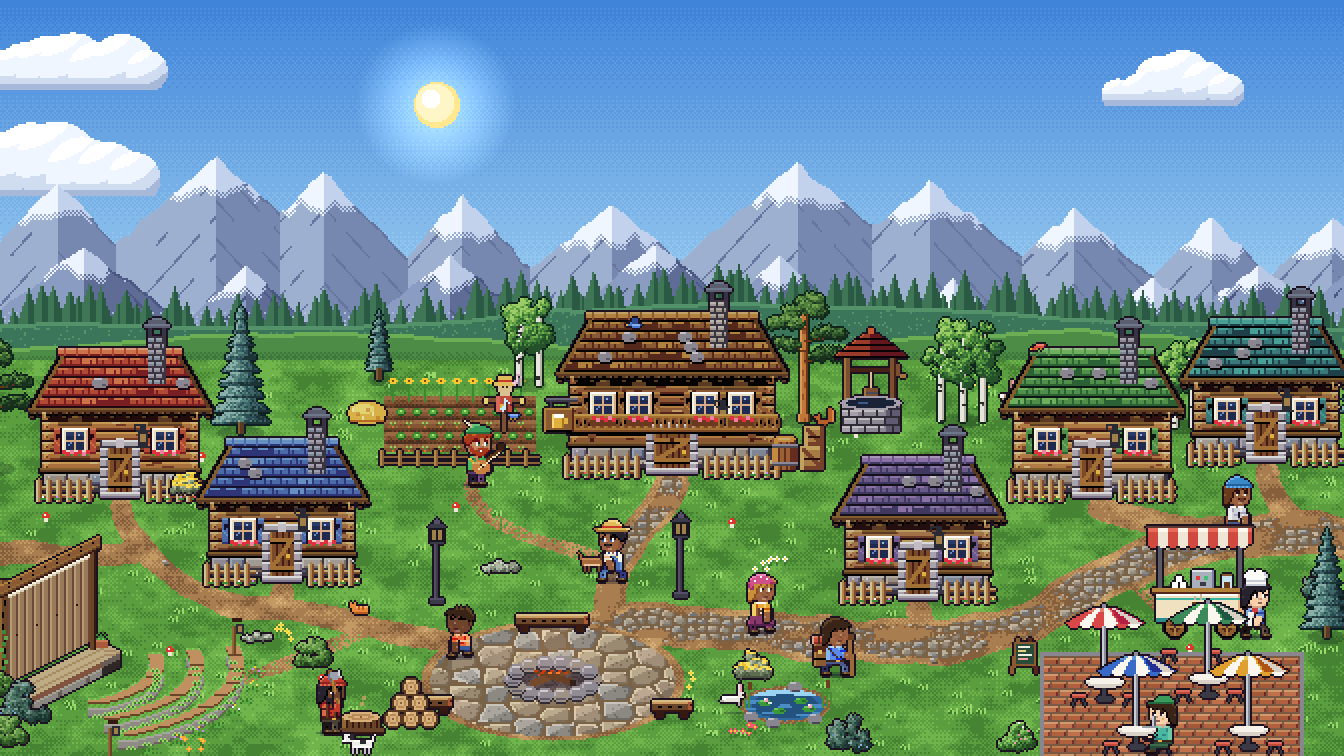
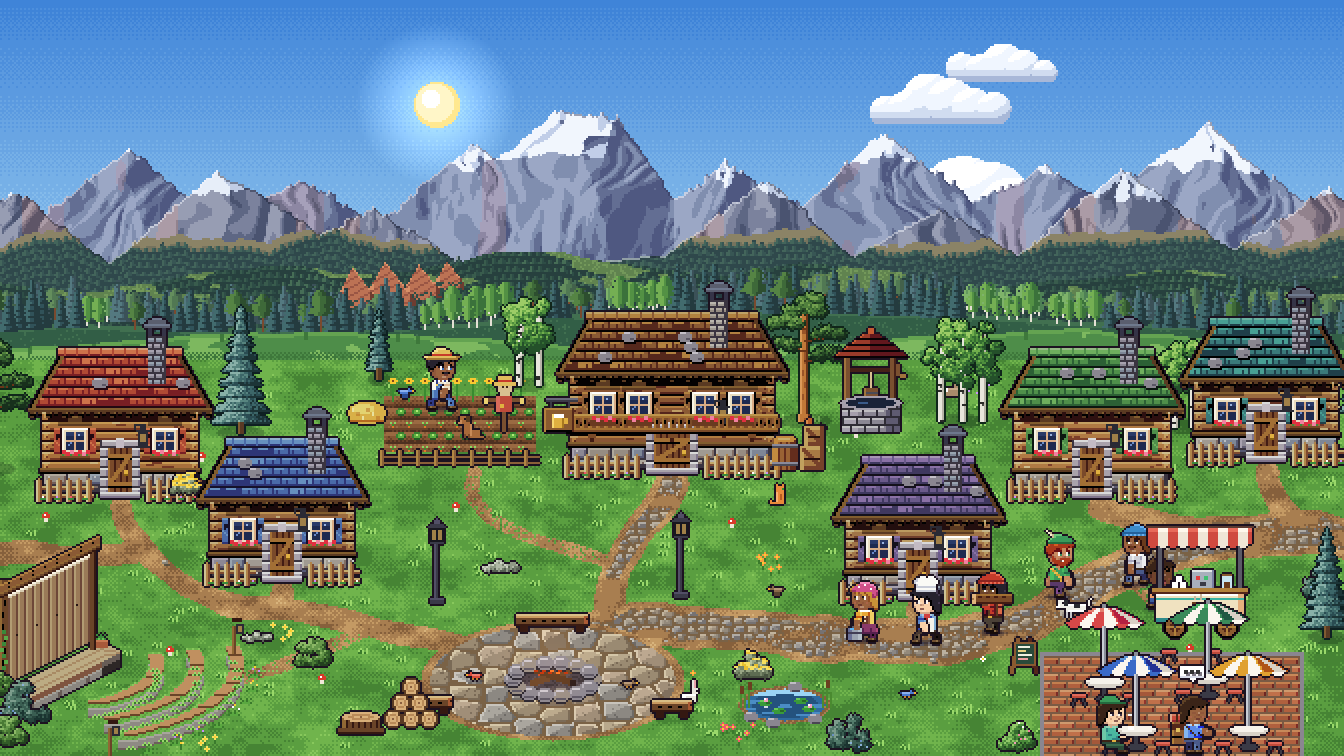
Repaint the mountain backdrop as the Colorado Front Range
The Continental Divide with a Longs-like massif, faceted granite and
gully snow above a ragged snowline; a nearer granite range with a
tundra band and treeline; forested foothills with Flatirons slabs; and
a spruce, ponderosa and aspen forest edge. Ranges get selective
silhouette outlines and more haze with distance. Refresh the README
screenshots.

diff --git a/pixel-village-card.js b/pixel-village-card.js
@@ -2019,6 +2019,259 @@ function drawWoodpile(g, snow) {
   if (snow) { P(g, lx + 5, ly - 21, 9, 2, '#ffffff'); P(g, lx - 4, ly - 13, 6, 1, '#ffffff'); P(g, lx + 18, ly - 13, 5, 1, '#ffffff'); }
 }
 
+// The backdrop, after the Colorado Front Range, painted back to front:
+//   1. the Continental Divide: hazy, jagged, a flat-topped Longs-like massif with a sheer east face, snowfields
+//      lying in the gullies above the snowline;
+//   2. a nearer granite range: rock above treeline, a band of tundra, dark forest below;
+//   3. forested foothills with meadows and a few Flatirons-style sandstone slabs;
+//   4. a forest edge of spruce/fir spires, ponderosa and aspen groves (two rows for depth);
+//   5. the rolling meadow in front of the village.
+// Every layer fills down to the horizon, so each one only paints the rows above the next one's top.
+function* paintBackdrop(set, snow, season) {
+  const HAZE = '#b6c6e0';
+  const fade = (arr, k) => arr.map((c) => hexToRgb(mixHex(c, HAZE, k)));
+  const frost = (arr, k) => (snow ? arr.map((c) => mixHex(c, '#eef4fc', k)) : arr);
+  const fbm = (x, y, seed, oct = 3) => { let v = 0, a = 0.5, f = 1, n = 0; for (let i = 0; i < oct; i++) { v += vnoise(x * f, y * f, seed + i * 17) * a; n += a; a *= 0.5; f *= 2.03; } return v / n; };
+  const ridged = (x, y, seed) => 1 - Math.abs(fbm(x, y, seed, 3) * 2 - 1);
+  // Distant conifer forest as rows of little tree tips (the classic pixel-art treeline): each row is offset,
+  // trees are lit on their western side, gaps between them read as shadow. Returns a palette index 0-2, or -1
+  // above the forest's spiky top edge.
+  const forestTex = (x, y, top, seed) => {
+    const rowH = 4, dy0 = y - top + 3; // tips poke up to 3px above the forest line
+    if (dy0 < 0) return -1;
+    const r = Math.floor(dy0 / rowH), dy = dy0 - r * rowH, ph = Math.floor(hash2(r, 1, seed) * 4);
+    const cell = Math.floor((x + ph) / 4), cx = cell * 4 + 1.5 - ph, tip = hash2(cell, r, seed + 1) * 1.6;
+    const half = (dy + 1 - tip) * 0.55;
+    if (r === 0 && half < Math.abs(x - cx)) return -1; // above the first row of tips: sky / rock shows
+    if (half < Math.abs(x - cx) || dy < tip) return 0;
+    return x < cx ? 2 : 1;
+  };
+  // how far down the snow reaches: deep in winter and spring, lingering snowfields in summer
+  const snowAmt = (snow ? 1.5 : 0) + ({ winter: 1, spring: 0.8, fall: 0.45, summer: 0.4 }[season] ?? 0.5);
+
+  // ridgelines: each peak is an asymmetric cone (or a tilted flat summit); the highest wins per column,
+  // then the line is roughened with broad undulation and serrated pinnacles
+  const profile = (peaks, seed, jag, floor) => {
+    const top = new Float32Array(RW), owner = new Int16Array(RW);
+    for (let x = 0; x < RW; x++) {
+      let best = 1e9, who = 0;
+      peaks.forEach((p, i) => {
+        const dx = x - p.x, flat = p.flat || 0, ax = Math.abs(dx);
+        const y = ax <= flat ? p.y + (dx + flat) * (p.tilt || 0) : p.y + (ax - flat) * (dx < 0 ? p.l : p.r);
+        if (y < best) { best = y; who = i; }
+      });
+      best += (fbm(x * 0.035, 0.5, seed) - 0.5) * jag * 2 + (hash2(x >> 1, 7, seed) - 0.5) * jag * 0.45;
+      if (hash2(x >> 2, 9, seed) < 0.12) best -= jag * 0.35; // little pinnacles
+      top[x] = Math.max(0, Math.min(best, floor + (fbm(x * 0.05, 3, seed) - 0.5) * 6)); owner[x] = who;
+    }
+    return { top, owner, peaks };
+  };
+
+  const divide = profile([
+    { x: -30, y: 92, l: 0.7, r: 0.62 }, { x: 64, y: 74, l: 0.78, r: 0.92 }, { x: 150, y: 90, l: 0.48, r: 0.52 },
+    { x: 236, y: 72, l: 0.82, r: 0.55 }, { x: 292, y: 56, l: 0.72, r: 1.5, flat: 15, tilt: 0.1 },
+    { x: 362, y: 84, l: 0.6, r: 0.5 }, { x: 440, y: 66, l: 0.95, r: 0.78 }, { x: 522, y: 82, l: 0.55, r: 0.62 },
+    { x: 604, y: 62, l: 0.72, r: 0.84 }, { x: 700, y: 82, l: 0.62, r: 0.6 },
+  ], 61, 5, HZ - 62);
+  const range = profile([
+    { x: 6, y: 96, l: 0.6, r: 0.72 }, { x: 108, y: 86, l: 0.84, r: 0.62 }, { x: 186, y: 104, l: 0.55, r: 0.6 },
+    { x: 384, y: 90, l: 0.72, r: 0.92 }, { x: 470, y: 104, l: 0.55, r: 0.6 }, { x: 560, y: 84, l: 0.8, r: 0.72 }, { x: 664, y: 96, l: 0.6, r: 0.62 },
+  ], 62, 4, HZ - 50);
+
+  // foothills, with a few sandstone slabs leaning on them (steep west edge, longer east edge)
+  const SLABS = [[176, 4, 8, 20], [192, 6, 11, 26], [209, 3, 8, 18], [223, 2, 6, 14]]; // apex x, rise above the hill, half-width, length down the slope
+  const foot = new Float32Array(RW), hill = new Float32Array(RW);
+  for (let x = 0; x < RW; x++) {
+    hill[x] = HZ - 44 + 6 * Math.sin(x * 0.013 + 1.2) + 4 * Math.sin(x * 0.041 + 0.3) + (fbm(x * 0.02, 1.5, 63) - 0.5) * 12;
+    foot[x] = hill[x];
+  }
+  // each slab is a steep triangle: apex just above the hill line, widening down the slope
+  const slabEdge = (i, x) => {
+    const [ax, rise, hw, len] = SLABS[i], t = (x - ax) / hw;
+    if (t < -1 || t > 1.4) return null;
+    return { top: hill[ax] - rise + (t < 0 ? -t : t / 1.4) * (len * 0.75), bot: hill[ax] - rise + len };
+  };
+  SLABS.forEach((sl, i) => {
+    for (let x = sl[0] - sl[2]; x <= sl[0] + Math.round(sl[2] * 1.4); x++) {
+      if (x < 0 || x >= RW) continue;
+      const e = slabEdge(i, x);
+      if (e && e.top < foot[x]) foot[x] = e.top;
+    }
+  });
+
+  // the forest edge: mostly spruce and fir spires, ponderosa with flat crowns, aspen in groves
+  const mh = (x) => HZ - 22 + 5 * Math.sin(x * 0.011 + 0.5) + 4 * vnoise(x * 0.03, 0.2, 15);
+  const nh = (x) => HZ - 11 + 5 * Math.sin(x * 0.017 + 2) + 3 * vnoise(x * 0.05, 0.7, 17);
+  const trees = [];
+  const R = mulberry32(5);
+  for (const row of [1, 0]) {
+    for (let px = -12 + row * 2; px < RW + 12; px += (row ? 3 : 4) + R() * (row ? 3 : 5)) {
+      if (fbm(px * 0.018, row + 3, 64) < 0.28) continue; // meadow gaps
+      const grove = fbm(px * 0.022, 8, 65) > 0.63;
+      const kind = grove ? 'aspen' : R() < 0.25 ? 'pine' : 'spruce';
+      const h = (row ? 9 : 12) + R() * (row ? 10 : 15) * (kind === 'aspen' ? 0.65 : 1) + (kind === 'spruce' && R() < 0.15 ? 6 : 0);
+      trees.push({ x: px + R() * 2, base: mh(px) + (row ? -2.5 : 1.5) + R(), h, kind, row, seed: Math.floor(R() * 1e6) });
+    }
+  }
+  trees.sort((a, b) => (b.row - a.row) || (a.base - b.base));
+
+  const nearTop = new Float32Array(RW), ridgeTop = new Float32Array(RW);
+  // trees are painted over the layers behind, so those stop at the hill line, not the treetops
+  for (let x = 0; x < RW; x++) { nearTop[x] = Math.round(nh(x)); ridgeTop[x] = Math.round(mh(x)); }
+  const stop1 = new Float32Array(RW), stop2 = new Float32Array(RW), stop3 = new Float32Array(RW), stop4 = new Float32Array(RW);
+  for (let x = 0; x < RW; x++) {
+    stop4[x] = Math.min(nearTop[x], HZ);
+    stop3[x] = Math.min(ridgeTop[x], stop4[x]);
+    stop2[x] = Math.min(Math.round(foot[x]), stop3[x]);
+    stop1[x] = Math.min(Math.round(range.top[x]), stop2[x]);
+  }
+
+  // A range: faceted rock from ridged noise (ribs and gullies falling down the faces, lit from the left),
+  // warm granite patches, snow above a ragged snowline (mostly in the gullies), tundra and forest below
+  // the treeline, and haze toward the base.
+  const paintRange = function* (prof, stop, P0, seed, o) {
+    const rock = fade(frost(P0.rock, 0.35), o.haze), warm = fade(frost(P0.warm, 0.35), o.haze), snw = fade(P0.snow, o.haze * 0.5);
+    const forest = fade(frost(P0.forest, 0.45), o.haze), tundra = P0.tundra && fade(frost(P0.tundra, 0.6), o.haze);
+    const base = hexToRgb(mixHex(P0.base, HAZE, o.haze)), line = hexToRgb(P0.line), rim = hexToRgb('#f2f6ff');
+    let minTop = HZ;
+    for (let x = 0; x < RW; x++) minTop = Math.min(minTop, Math.round(prof.top[x]));
+    for (let y = minTop; y < HZ; y++) {
+      if ((y - minTop) % 20 === 19) yield; // a few rows at a time
+      let prevF = null;
+      for (let x = 0; x < RW; x++) {
+        const F = ridged(x * 0.045 + fbm(x * 0.015, y * 0.025, seed) * 2.2, y * 0.022 + x * 0.004, seed + 5);
+        const gF = prevF === null ? 0 : F - prevF;
+        prevF = F;
+        if (y < Math.round(prof.top[x]) || y >= stop[x]) continue;
+        const pk = prof.peaks[prof.owner[x]], depth = y - prof.top[x], flat = pk.flat || 0;
+        const broad = fbm(x * 0.012, y * 0.02, seed + 2);
+        // the arête between the lit west face and the shaded east face wanders and leans as it descends
+        const ry = y - pk.y, arete = pk.x + (fbm(ry * 0.06, pk.x * 0.1, seed + 8) - 0.5) * 16 + ry * 0.18;
+        const dx = x - arete;
+        let light = Math.abs(x - pk.x) <= flat && ry < flat * 0.8 ? 0.66 : dx < 0 ? 0.6 : 0.36;
+        const cliff = pk.r > 1.2 && x > pk.x + flat - ry * 0.25; // the sheer east face, narrowing downward
+        if (cliff) light -= 0.14;
+        light += -gF * 6 + (F - 0.5) * 0.3 + (broad - 0.5) * 0.2;
+        const gully = F < 0.5, sl = o.snowY + (fbm(x * 0.03, 2, seed + 9) - 0.5) * 16 + (fbm(x * 0.13, y * 0.06, seed + 10) - 0.5) * 9;
+        // snow only where it's high enough: the snowline is an altitude, ragged, reaching a little lower in the gullies
+        const isSnow = !cliff && (gully ? y < sl + (0.5 - F) * 44 : y < sl - 3 && (light > 0.4 || depth < 4));
+        const tl = o.treeY ? o.treeY + (fbm(x * 0.03, 4, seed + 11) - 0.5) * 16 + (fbm(x * 0.12, 5, seed + 12) - 0.5) * 6 : 1e9;
+        let col;
+        const ft = o.treeY ? forestTex(x, y, Math.round(tl), seed + 3) : -1;
+        if (ft >= 0) col = forest[ft];
+        else if (tundra && y > tl - 4 - Math.round(fbm(x * 0.06, 6, seed + 13) * 4)) col = tundra[y > tl - 2 ? 0 : 1]; // a clean band of tundra above the trees
+        else if (isSnow) col = snw[light > 0.5 ? 1 : 0];
+        else {
+          const pal = fbm(x * 0.04, y * 0.009, seed + 14) > 0.64 ? warm : rock; // mineral streaks down the fall line
+          col = pal[light < 0.3 ? 0 : light < 0.47 ? 1 : light < 0.68 ? 2 : 3];
+        }
+        if (!o.treeY && y > HZ - o.hazeH * 0.5) col = base; // the far range fades into haze at its foot
+        // selective outline: a pale rim on the sunlit western flanks, a deeper tone of the rock on the shaded side
+        const tN = Math.round(prof.top[x]);
+        if (y === tN || (x > 0 && y < Math.round(prof.top[x - 1])) || (x < RW - 1 && y < Math.round(prof.top[x + 1]))) {
+          const westFlank = x < RW - 1 && x > 0 && prof.top[x + 1] < prof.top[x - 1];
+          const c = col.map((v) => v); // tint the actual fill so the edge belongs to the rock or snow under it
+          col = westFlank ? c.map((v, i) => Math.round(v + (rim[i] - v) * 0.5)) : c.map((v, i) => Math.round(v + (line[i] - v) * 0.45));
+        }
+        set(x, y, col);
+      }
+    }
+  };
+
+  yield* paintRange(divide, stop1, {
+    rock: ['#444c76', '#5a648a', '#7a88aa', '#98a4c2'], warm: ['#545068', '#6c6680', '#88809c', '#a49cb6'],
+    snow: ['#c2cee8', '#f4f8ff'], forest: ['#4a6276', '#56707e', '#62808a'], base: '#7e92b6', line: '#2e3458',
+  }, 71, { haze: 0.1, snowY: 74 + snowAmt * 24, hazeH: 16 });
+  yield;
+  yield* paintRange(range, stop2, {
+    rock: ['#3e4664', '#545c7a', '#747a96', '#9498ae'], warm: ['#54485a', '#6e5e6c', '#8e7a84', '#aa96a0'],
+    snow: ['#c0cce4', '#eaf0fa'], forest: ['#203a3a', '#2a4a44', '#365a4c'], tundra: ['#6e6a50', '#867c58', '#7a5e48'], base: '#6c84a0', line: '#1c2034',
+  }, 72, { haze: 0.1, snowY: 94 + snowAmt * 12, treeY: HZ - 56, hazeH: 0 });
+  yield;
+
+  // foothills: dense forest, lit western flanks, meadow clearings, sandstone slabs
+  const fForest = fade(frost(['#1c3632', '#24443a', '#305442', '#3e664c'], 0.5), 0.07);
+  const meadowPal = { spring: ['#5e8a44', '#76a050'], summer: ['#5a7e44', '#6e9450'], fall: ['#8a8a48', '#a8a058'], winter: ['#7e7658', '#958a66'] }[season] || ['#5a7e44', '#6e9450'];
+  const fMeadow = fade(frost(meadowPal, 0.8), 0.07), slab = C2(frost(['#6e3c30', '#9a5644', '#bc7254', '#d89068'], 0.45));
+  for (let x = 0; x < RW; x++) {
+    const slope = (hill[Math.min(RW - 1, x + 3)] - hill[Math.max(0, x - 3)]) / 6;
+    for (let y = Math.round(foot[x]); y < stop3[x]; y++) {
+      const depth = y - hill[x];
+      let col;
+      const si = SLABS.findIndex((sl, i) => { const e = slabEdge(i, x); return e && y >= e.top && y < e.bot; });
+      if (si >= 0) {
+        // a tilted sandstone slab: lit face with bedding lines, shadowed east edge, crumbling foot
+        const [ax, , hw] = SLABS[si], u = (x - ax) / hw, e = slabEdge(si, x);
+        col = slab[u > 1.1 ? 0 : (y + Math.floor(x * 0.6)) % 4 === 0 ? 1 : u < -0.5 || y - e.top < 1 ? 3 : 2];
+        if (e.bot - y < 4 && hash2(x, y, 72) < 0.5) col = fForest[1];
+      } else if (fbm(x * 0.03, y * 0.09, 66) > 0.64 && depth < 12) col = fMeadow[hash2(x, y, 67) < 0.3 ? 1 : 0];
+      else {
+        const ft = forestTex(x, y + 3, Math.round(hill[x]), 68);
+        col = fForest[ft < 0 ? 1 : ft === 2 ? (slope > 0 ? 3 : 2) : ft === 1 ? 1 : 0];
+      }
+      if (snow && si < 0) { const ft = forestTex(x, y + 3, Math.round(hill[x]), 68); if (ft === 2) col = hexToRgb('#f4f8ff'); else if (ft < 0 || ft === 1) col = hexToRgb('#c8d4e2'); } // snow on each tree's sunny side
+      set(x, y, col);
+    }
+  }
+  yield;
+
+  // the forest edge: hill body, then the back row and the front row of trees
+  const hillPal = fade(frost({ fall: ['#3e5e36', '#4e7040'], winter: ['#4e5a40', '#606c4c'] }[season] || ['#2c5a40', '#3c6c4a'], 0.8), 0.04);
+  for (let x = 0; x < RW; x++) {
+    for (let y = Math.round(mh(x)); y < stop4[x]; y++) set(x, y, hillPal[y - mh(x) < 2 || hash2(x, y, 17) < 0.07 ? 1 : 0]);
+  }
+  const aspenPal = season === 'winter' ? ['#6a6458', '#8a8274', '#a69e90'] : FOLIAGE.aspen[season === 'fall' ? 'fall' : season === 'spring' ? 'spring' : 'summer'].slice(1, 4);
+  const pals = {
+    spruce: [fade(frost(FOLIAGE.spruce.slice(0, 3), 0.4), 0.2), fade(frost(FOLIAGE.spruce.slice(0, 3), 0.4), 0.05)],
+    pine: [fade(frost(FOLIAGE.pine.slice(1, 4), 0.4), 0.2), fade(frost(FOLIAGE.pine.slice(1, 4), 0.4), 0.05)],
+    aspen: [fade(frost(aspenPal, 0.5), 0.2), fade(frost(aspenPal, 0.5), 0.05)],
+  };
+  const bark = { pine: hexToRgb('#7a4a2e'), aspen: hexToRgb('#e4e0d4') };
+  for (const tr of trees) {
+    const pal = pals[tr.kind][tr.row ? 0 : 1], h = tr.h, top = tr.base - h;
+    for (let y = Math.max(0, Math.floor(top)); y < Math.round(tr.base) && y < HZ; y++) {
+      const t = (y - top) / h; // 0 at the tip, 1 at the base
+      let hw, cx = tr.x;
+      if (tr.kind === 'spruce') hw = t * h * 0.24 * (0.7 + 0.3 * ((t * h / 3) % 1)) + (t < 0.08 ? 0.3 : 0); // narrow tiered spire
+      else if (tr.kind === 'pine') { // ponderosa: flat-topped, clumpy crown high on a bare orange trunk
+        const k = t / 0.62;
+        hw = t < 0.62 ? Math.pow(Math.sin(Math.min(1, k * 1.25) * Math.PI * 0.5), 0.7) * (k < 0.85 ? 1 : (1 - k) * 6.7) * h * 0.26 * (0.7 + 0.6 * hash2(tr.seed, y >> 1, 70)) : 0;
+        cx += (hash2(tr.seed, y >> 2, 71) - 0.5) * 1.6;
+      } else { // aspen: slim oval crowns crowding together
+        const k = t / 0.78;
+        hw = t < 0.78 ? Math.sqrt(Math.max(0, 1 - (k * 2 - 1) ** 2)) * h * 0.2 : 0;
+      }
+      if (hw < 0.5) {
+        if (tr.kind !== 'spruce' && t >= 0.5) { const xx = Math.round(tr.x); if (xx >= 0 && xx < RW) set(xx, y, bark[tr.kind]); }
+        continue;
+      }
+      for (let x = Math.round(cx - hw); x <= Math.round(cx + hw); x++) {
+        if (x < 0 || x >= RW) continue;
+        if (tr.kind !== 'spruce' && hash2(x, y, tr.seed) < 0.16 && Math.abs(x - cx) > hw - 1.5) continue; // ragged edge
+        const u = (x - cx) / hw;
+        let col = pal[u < -0.25 ? 2 : u > 0.3 ? 0 : 1];
+        if (tr.kind === 'spruce' && (y - Math.floor(top)) % 3 === 2 && u > -0.6) col = pal[0]; // shadow under each tier
+        if (snow && hash2(x, y, tr.seed + 1) < 0.35) col = hexToRgb('#f0f6ff');
+        set(x, y, col);
+      }
+    }
+  }
+  yield;
+
+  // the meadow before the village: patchy grass, the odd shrub
+  const mPal = fade(frost({ spring: ['#4e8c42', '#66a650', '#3e7636', '#82bc60'], fall: ['#748a3e', '#90a04a', '#5e7234', '#aab45a'], winter: ['#7a7450', '#948a5e', '#665e44', '#ae9e6c'] }[season] || ['#4c8c46', '#62a24e', '#3c7638', '#7cb85c'], 0.85), 0.02);
+  for (let x = 0; x < RW; x++) {
+    const ht = nearTop[x];
+    for (let y = ht; y < HZ; y++) {
+      const pt = fbm(x * 0.04, y * 0.12, 74);
+      let col = y - ht < 2 ? mPal[1] : (y - ht) / (HZ - ht) > 0.6 + bayer(x, y) * 0.4 ? mPal[2] : pt > 0.6 ? mPal[3] : mPal[0];
+      if (y - ht < 4 && hash2(x >> 1, 3, 75) < 0.05) col = mPal[2];
+      set(x, y, col);
+    }
+  }
+}
+const C2 = (arr) => arr.map(hexToRgb);
+
 // The whole land layer at once (tests, tools). The card builds it in steps across frames instead.
 function buildLand(snow, season = 'summer') {
   const it = buildLandSteps(snow, season);
@@ -2035,87 +2288,7 @@ function* buildLandSteps(snow, season = 'summer') {
   const set = (x, y, col) => { const i = (y * RW + x) * 4; d[i] = col[0]; d[i + 1] = col[1]; d[i + 2] = col[2]; d[i + 3] = 255; };
   const C = (arr) => arr.map(hexToRgb);
 
-  // two mountain ranges: lit left faces, shadowed right faces, snowcaps and crevices.
-  // Each layer below (far range, near range, pine hills, near hills) fills its columns down to the
-  // horizon, so a layer only paints the rows above the next one's top.
-  const ridge = (seed, yBase, hMin, hMax) => {
-    const rr = mulberry32(seed), peaks = [];
-    for (let x = -60; x < RW + 60; x += 50 + rr() * 60) peaks.push({ x, top: yBase - hMin - rr() * (hMax - hMin), s: 0.7 + rr() * 0.4 });
-    const cols = [];
-    for (let x = 0; x < RW; x++) {
-      let pk = null, best = 1e9;
-      for (const k of peaks) {
-        const y = k.top + Math.abs(x - k.x) * k.s + vnoise(x * 0.2, k.x, seed) * 3;
-        if (y < best) { best = y; pk = k; }
-      }
-      cols.push({ pk, best, top: Math.max(0, Math.round(best)) });
-    }
-    return cols;
-  };
-  const range = (seed, cols, stop, pal, capDepth) => {
-    const [rl, rd, rc, sl, sd, hz] = C(pal);
-    for (let x = 0; x < RW; x++) {
-      const { pk, best, top } = cols[x], lit = x < pk.x;
-      const cap = capDepth + vnoise(x * 0.18, 1, seed + 1) * 8 - (snow ? -6 : 0);
-      for (let y = top, end = Math.min(HZ, stop[x]); y < end; y++) {
-        const depth = y - pk.top, under = y - best;
-        let col;
-        if (depth < cap) col = lit ? sl : sd;
-        else {
-          col = lit ? rl : rd;
-          const k = lit ? (x + y * 0.9) : (x - y * 0.9);
-          if (under > 3 && ((k % 17) + 17) % 17 < 1.3 && vnoise(x * 0.1, y * 0.1, seed + 2) > 0.45) col = rc;
-          if (depth < cap + 3 && bayer(x, y) < 0.5) col = lit ? sl : sd;
-        }
-        if (under < 1 && !lit && depth >= cap) col = rc;
-        if ((y - (HZ - 30)) / 30 > bayer(x, y) + 0.1) col = hz;
-        set(x, y, col);
-      }
-    }
-  };
-  // mid hills crowned with pines
-  const hill = C(snow ? ['#c4d2e6', '#dce6f4'] : ['#3c765a', '#54926a']);
-  const pine = C(snow ? ['#5a7a90', '#e8f0fa'] : ['#2a5a44', '#3f7656']);
-  const mh = (x) => HZ - 24 + 6 * Math.sin(x * 0.011 + 0.5) + 4 * vnoise(x * 0.03, 0.2, 15);
-  const pineTop = new Float32Array(RW).fill(1e9), pineLit = new Uint8Array(RW);
-  const R = mulberry32(5);
-  for (let px = -10; px < RW + 10; px += 4 + R() * 6) {
-    const ht = 10 + R() * 14, hw = ht * 0.32, top = mh(px) + 2 - ht;
-    for (let x = Math.floor(px - hw); x <= Math.ceil(px + hw); x++) {
-      if (x < 0 || x >= RW) continue;
-      const yy = top + (Math.abs(x - px) / hw) * ht + (hash2(x, 3, 16) < 0.3 ? 1 : 0);
-      if (yy < pineTop[x]) { pineTop[x] = yy; pineLit[x] = x < px ? 1 : 0; }
-    }
-  }
-  const nh = (x) => HZ - 11 + 5 * Math.sin(x * 0.017 + 2) + 3 * vnoise(x * 0.05, 0.7, 17);
-  const nearTop = [], hillTop = [], far = ridge(41, HZ - 34, 38, 72), mid = ridge(42, HZ - 22, 20, 44);
-  for (let x = 0; x < RW; x++) {
-    nearTop.push(Math.round(nh(x)));
-    hillTop.push(Math.min(nearTop[x], Math.max(0, Math.min(Math.round(pineTop[x]), Math.round(mh(x))))));
-  }
-  range(41, far, mid.map((c, x) => Math.min(c.top, hillTop[x])), snow
-    ? ['#c4d0e8', '#9aaacb', '#8494b8', '#ffffff', '#d4e0f4', '#c8d4ea']
-    : ['#9eb0d0', '#7688b0', '#66769e', '#f0f6ff', '#c2d2ec', '#b0c0dc'], 14);
-  yield;
-  range(42, mid, hillTop, snow
-    ? ['#b0c0dc', '#8494b8', '#6e7ea4', '#ffffff', '#d0dcf0', '#bccae2']
-    : ['#8a9cc2', '#5e6c96', '#4c5884', '#eef4ff', '#b8c8e4', '#a8b8d8'], 9);
-  yield;
-
-  for (let x = 0; x < RW; x++) {
-    const ht = Math.round(mh(x)), pt = Math.round(pineTop[x]);
-    for (let y = Math.max(0, Math.min(pt, ht)), end = nearTop[x]; y < end && y < HZ; y++) {
-      if (y < ht) set(x, y, pineLit[x] ? pine[1] : pine[0]);
-      else set(x, y, y - ht < 2 || (hash2(x, y, 17) < 0.06) ? hill[1] : hill[0]);
-    }
-  }
-
-  // near hills
-  const near = C(snow ? ['#d4e0f0', '#ffffff', '#b8c8dc'] : ['#4c8c46', '#6cae54', '#3c7638']);
-  for (let x = 0; x < RW; x++) {
-    const ht = nearTop[x];
-    for (let y = ht; y < HZ; y++) set(x, y, y - ht < 2 ? near[1] : (y - ht) / (HZ - ht) > 0.6 + bayer(x, y) * 0.4 ? near[2] : near[0]);
-  }
+  yield* paintBackdrop(set, snow, season);
 
   // ground: grass, cobbled street, flagstone square, pond and farm soil
   const pale = (arr) => (snow ? arr.map((c) => c.map((v) => v + (255 - v) * 0.3)) : arr);

diff --git a/CLAUDE.md b/CLAUDE.md
@@ -116,6 +116,17 @@ Repo: `github.com/frankdeluxe5k/pixel-village-card` (private; going public for H
 - Amphitheater at the front left: low turf terraces with fieldstone faces and log benches, painted onto
   the ground (no outline); a small rustic screen panel turned ~45° toward the seats, partly off the left
   edge, on an angled deck; projector behind the back row; bushes hide the deck's left corner.
+- Backdrop (`paintBackdrop`, a generator inside `buildLandSteps`), back to front: the Continental Divide
+  (hazy, jagged ridgelines from asymmetric cones; a flat-topped Longs-like massif with a sheer east face; faceted
+  rock from ridged noise lit from the left, warm granite patches; snow above a ragged snowline, mostly in
+  gullies, deeper in winter/spring); a nearer granite range (rock, tundra band, forest below a ragged
+  treeline); forested foothills with meadows and four Flatirons-style sandstone slabs; a forest edge of
+  spruce/fir spires, flat-crowned ponderosa and aspen groves (two rows, gold in fall, bare in winter); the
+  meadow. Snow is by altitude only (a ragged snowline per range, tongues down the gullies), never a rim along
+  ridgelines; every range has a selective 1 px silhouette outline (a pale rim on sunlit western flanks, a deeper shade of
+  the rock on the shaded side; never a flat black line, it grabs the eye). Distant forest is drawn as tidy rows of
+  conifer tips (`forestTex`) with a spiky top edge and a clean tundra band above, not random speckle. Layers stop at the next layer's top (trees count from the hill line, not their tips). Each layer
+  gets more haze with distance; everything frosts when it snows.
 - Foliage themed on the Colorado Front Range: blue spruce, ponderosa pine, aspen groves; Gambel oak,
   rabbitbrush, juniper, wild rose, sagebrush. Seasons follow the real date (aspens gold in fall, bare in
   winter, tawny winter grass); snow caps everything when it snows.
